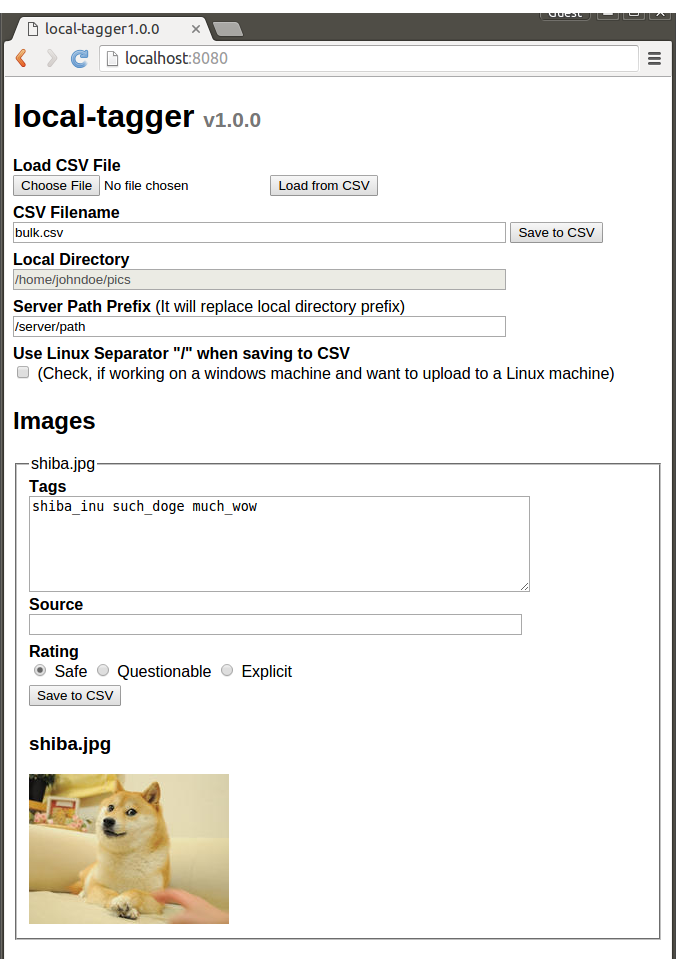
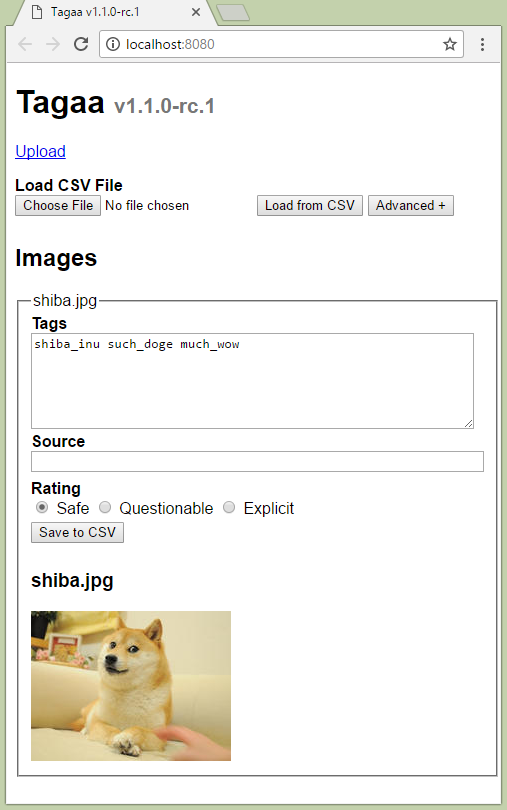
Update Readme and usage image
This commit improves and updates the Readme file for the latest version
and updates the usage image.

It adds the program's purpose, it improves the explanation of the
program and its usage, it mentions the upload feature and adds a section
for Shimmie2 users.

Changed region(s): [[0.0, 0.0, 1.0, 1.0], [0.3846, 0.1852, 0.5621, 0.216], [0.7692, 0.5247, 0.7988, 0.6173]]

diff --git a/README.md b/README.md
@@ -1,32 +1,44 @@
 # Tagaa - (タガー)
-User interface for the 'Bulk Add CSV' extension of Shimmie2.
+A program that helps with tagging images locally.
 
+## Purpose
+Tagging a collection of images properly can take a lot of time especially if
+done online and one by one. Tagaa can be used locally. It can load a collection of
+images and present them in the same window which makes tagging easier. More
+importantly it allows to save your work and resume it another time.
+
+As a latest feature, Tagaa also allows for easy uploads to the
+https://kusubooru.com server.
+
+
+## Usage
+* Download the latest [release](https://github.com/kusubooru/tagaa/releases)
+  for your platform.
+* Place the executable into a folder with images and launch. (Note: You might
+  be asked to give the program permission to run.)
+* You might see the program's server running on a console window but it will
+  attempt to open a browser window.
+* If the browser window does not open automatically then visit
+  http://localhost:8080 on your preferred browser.
+* Tag your images.
+* Click any of the 'Save to CSV' buttons.
+* When you are done with the program you can close the browser window but you
+  have to also close the server running on the console window with Ctrl+C.
+
+### Screenshot
+![Usage image](doc/usage.png)
+
+### Details
 Tagaa will launch a web interface in a new browser window, which
 allows to add tags, source and rating on each image that is contained in the
 current directory (or the one specified by the -dir option). Subfolders are
 ignored. Supported types: "gif", "jpeg", "jpg", "png", "swf"
 
-The web interface allows to save the image metadata in a CSV file as expected
-by the 'Bulk Add CSV' Shimmie2 extension. If a CSV file with the name
-'bulk.csv' (or a name specified by the -csv option) is found, it will be
-loaded automatically on start up.
-
-The folder containing the CSV file and the images can then be manually
-uploaded to the server and used by the 'Bulk Add CSV' extension to bulk add
-the images to Shimmie2.
-
-## Usage
-* Download the latest [release](https://github.com/kusubooru/tagaa/releases) for your platform.
-* Place the executable into a folder with images and launch.
-* If the browser window does not open automatically then visit http://localhost:8080
-* Tag your images.
-* Make sure to fill the 'server path prefix' input with the upload location on
-  your server.
-* Click any of the 'Save to CSV' buttons.
-
-### Screenshot
-![Usage image](doc/usage.png)
-
+The web interface allows to save the image metadata in a CSV file by clicking
+any of the 'Save to CSV' buttons. After the tags and the other metadata have
+been saved to the CSV file, you may close the program and resume your tagging
+the next time. If a CSV file with the name 'bulk.csv' (or a name specified by
+the -csv option) is found, it will be loaded automatically on start up.
 
 ### Command Line Options
 ```sh-session
@@ -48,3 +60,31 @@ With the above options, Tagaa will:
 2. Try to load ~/myfolder/mybulk.csv and if it doesn't exist it will create it.
 3. Start a new server at http://localhost:8888 and then launch a browser window
    to that address.
+
+## For Shimmie2 users
+
+On its current iteration, Tagaa acts as a user interface for the 'Bulk Add CSV'
+extension of Shimmie2. You can enable that extension from the Extension Manager
+of your Shimmie2 installation.
+
+This extension expects a CSV file which contains the paths of the images, their
+tags, sources and ratings. Tagaa helps with creating that CSV file which you
+can then upload on your server (along with the images). You can then visit the
+'Board Admin' menu of your Shimmie2 installation, go to the 'Bulk Add CSV'
+section and paste the path of the CSV file on your server before you click the
+Add button.
+
+You need to make sure that the paths of the images stored in the CSV file are
+the same as their path on your server. To help with that, you can change the
+'Server Path Prefix' in the Tagaa program (click the Advanced+ button).
+
+### Example
+Let's assume you are using Tagaa to tag images locally on a Windows machine and
+your images are under `C:\Users\John\Desktop\cute-images`.
+
+You are planning to upload the CSV and the images on a Linux machine under
+`/home/john/uploads/cute-images`.
+
+You will need to click the Advanced+ button on Tagaa, set `/home/john/uploads` as
+the 'Server Path Prefix' and also check the 'Use Linux Separator "/" when
+saving to CSV' option.
